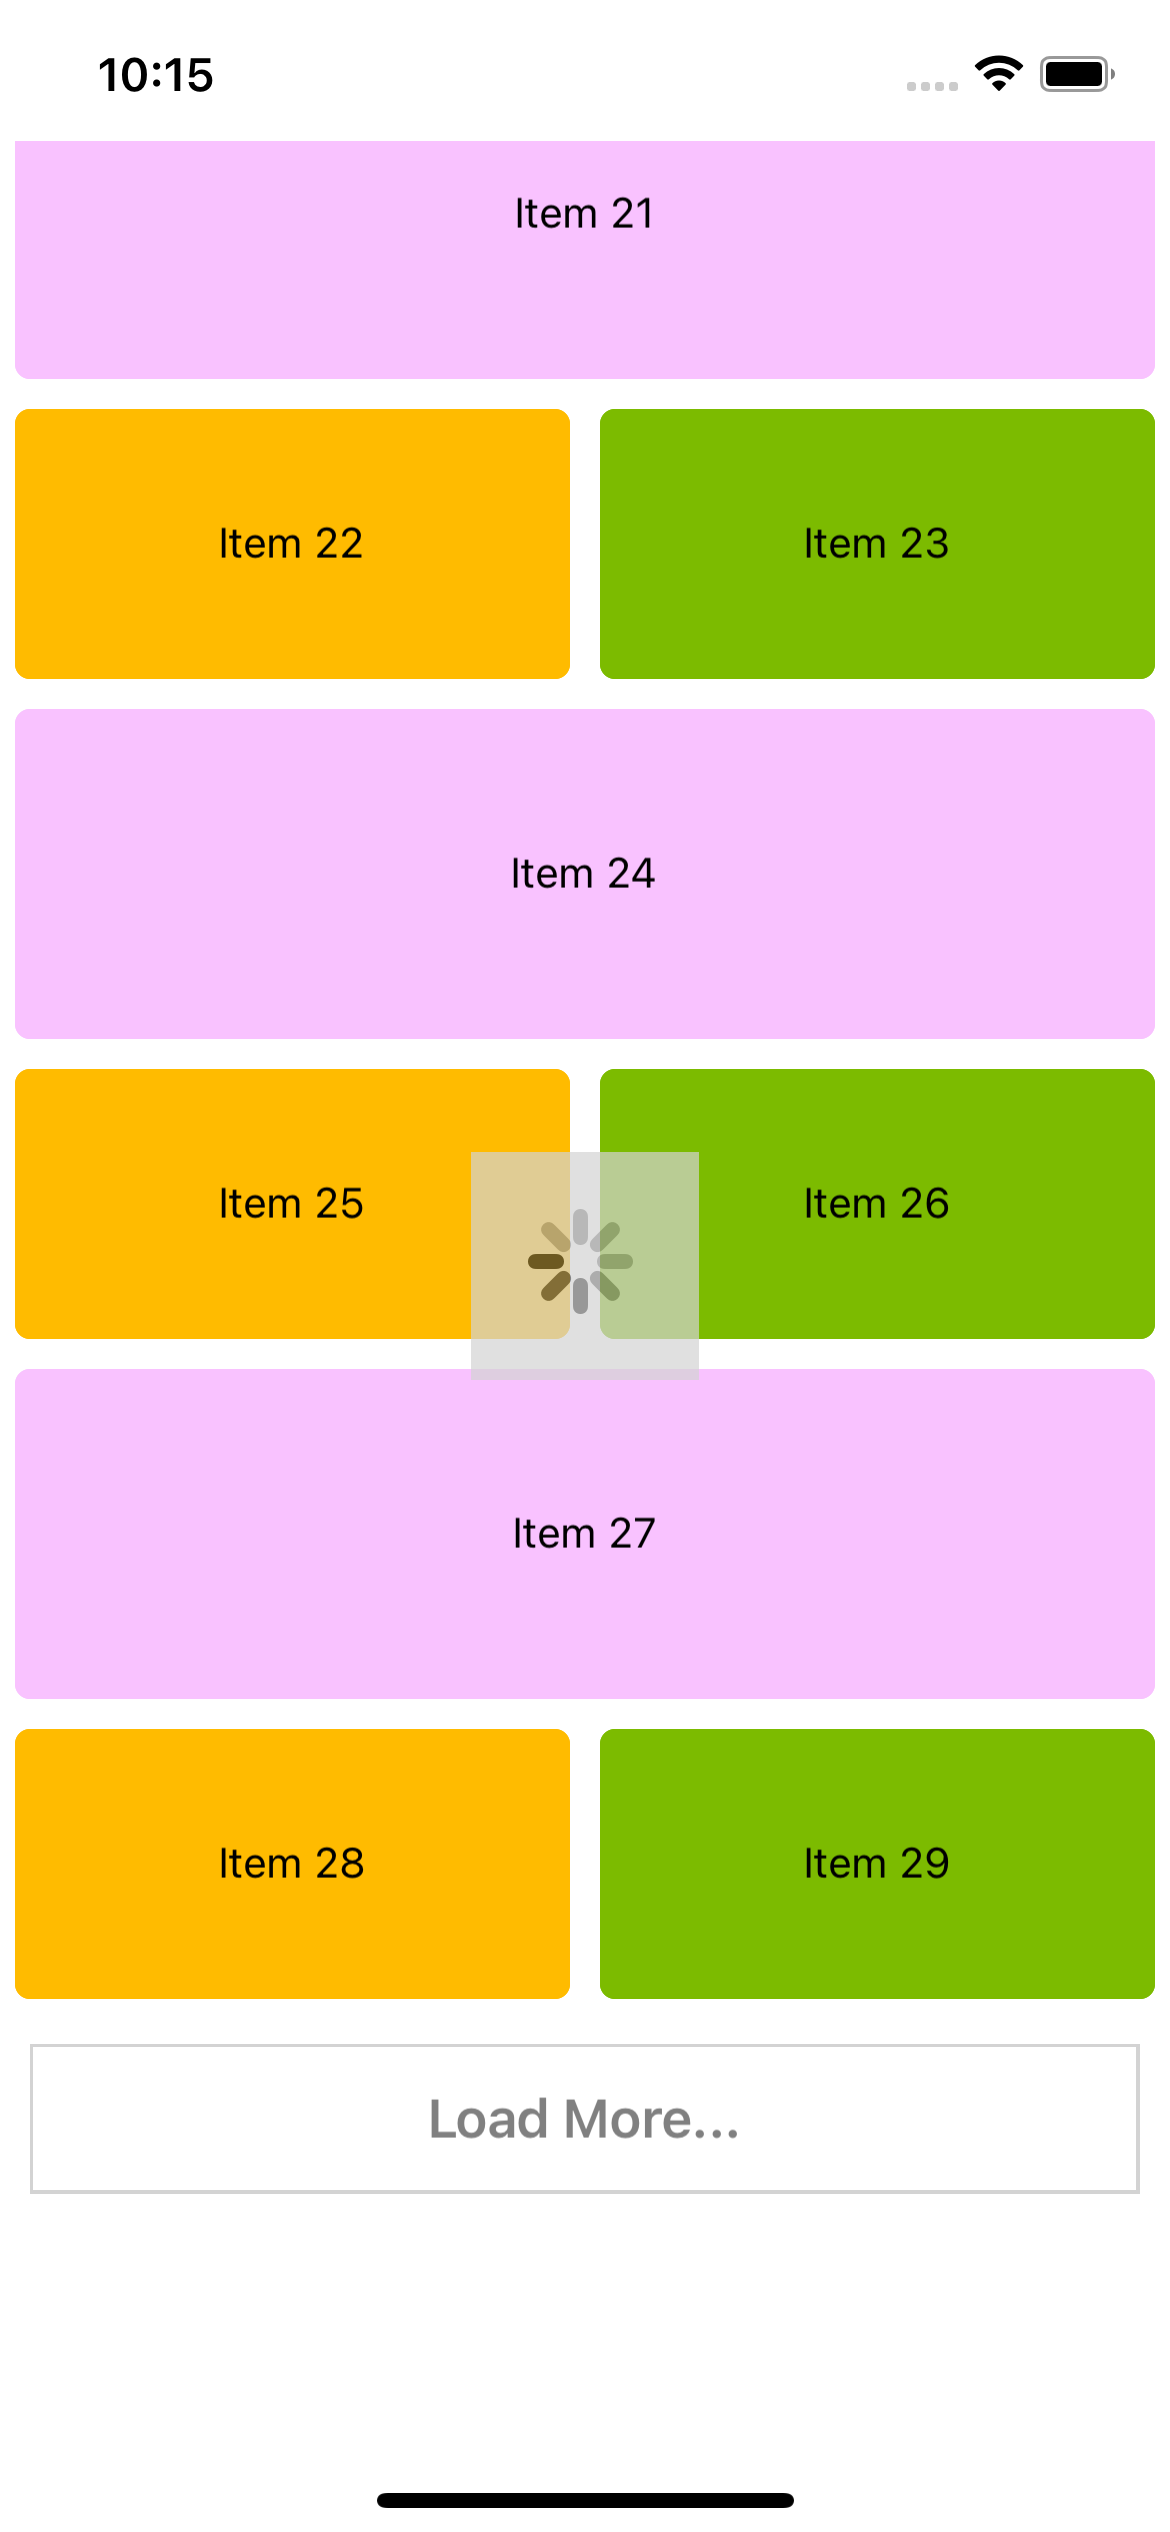
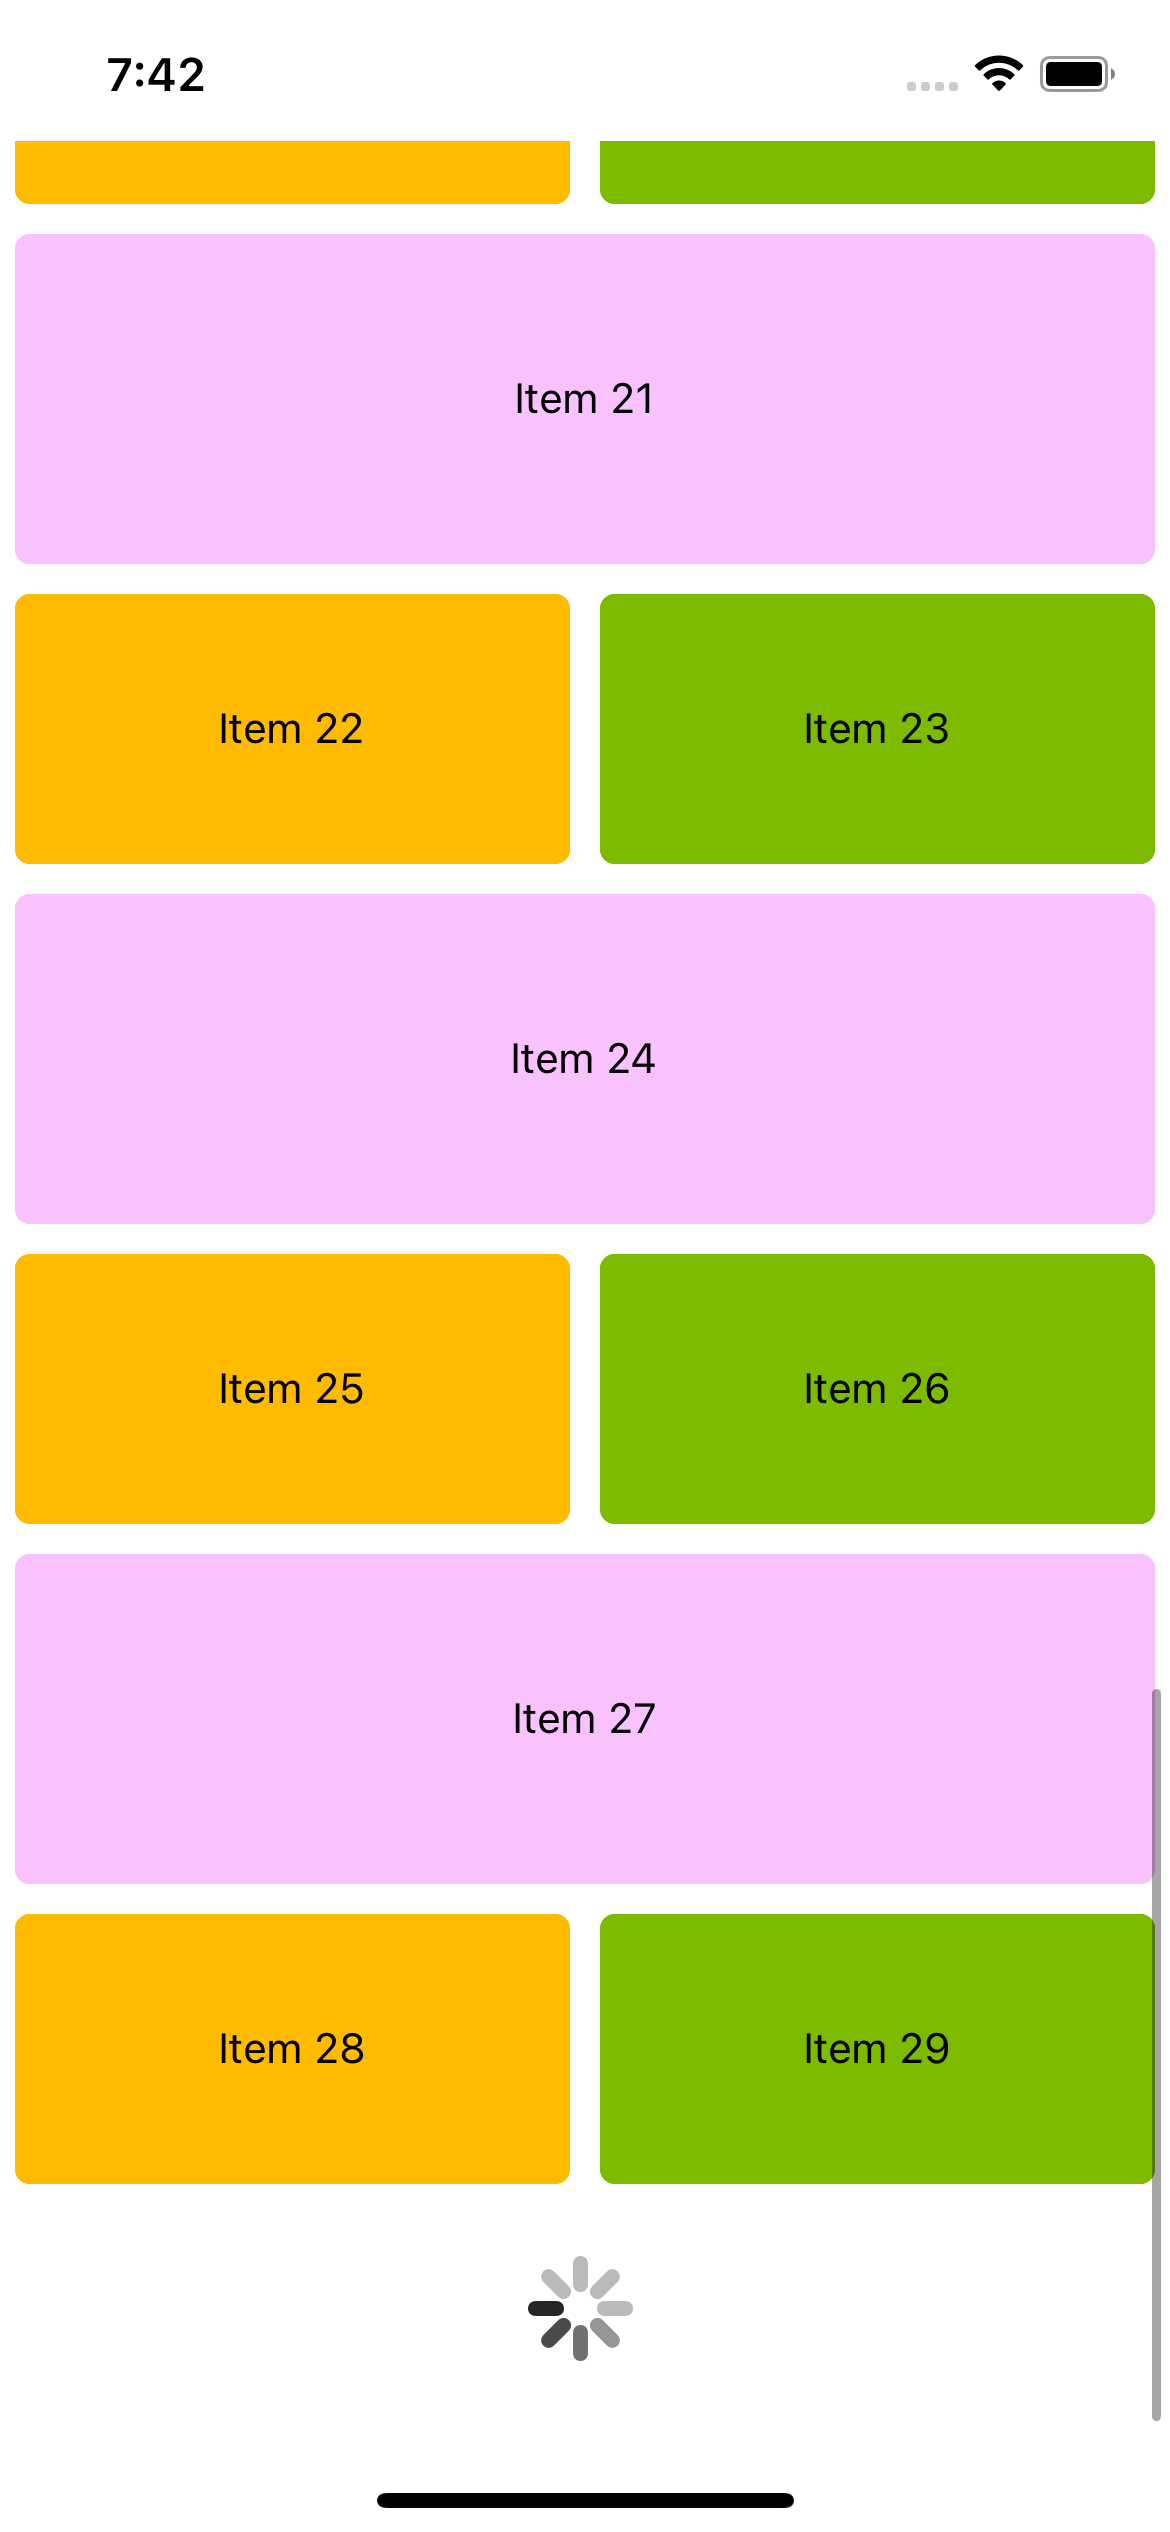
[change]: enhance - performance optimization - ux enhancement

diff --git a/AwesomeProject/src/c08/homework.jsx b/AwesomeProject/src/c08/homework.jsx
@@ -1,20 +1,27 @@
 import React, {useEffect, useRef, useState} from 'react';
-import {Dimensions, RefreshControl, View, Text, Pressable} from 'react-native';
+import {Dimensions, RefreshControl} from 'react-native';
 import {RecyclerListView, DataProvider, LayoutProvider} from 'recyclerlistview';
 
 import {Styles} from './Styles';
-import {ViewTypes, ITEM_HEIGHT} from './utils/constant';
+import {
+  ViewTypes,
+  ITEM_HEIGHT,
+  FETCH_BATCH_SIZE,
+  FETCH_DATA_SIZE,
+} from './utils/constant';
 import {generateArrayData} from './utils/util';
+import {LoadingIndicator as ListFooter} from './components/ListFooter';
 import ListItem from './components/ListItem';
-import Loading from './components/Loading';
+import LoadingLayer from './components/Loading';
 
-const BaseDataProvider = new DataProvider((r1, r2) => {
-  return r1.id !== r2.id;
-});
+// // disalbe debug
+// console.debug = () => {};
+const BaseDataProvider = new DataProvider((r1, r2) => r1.id !== r2.id);
 
 export default function RecyclerList() {
   const dataRef = useRef([]);
-  const [loading, setLoading] = useState(true);
+  const [loading, setLoading] = useState(false);
+  const [noMoreData, setNoMoreData] = useState(false);
   const [dataProvider, setDataProvider] = useState(BaseDataProvider);
   let {width} = Dimensions.get('window');
 
@@ -48,6 +55,7 @@ export default function RecyclerList() {
       }
     },
   );
+  layoutProvider.shouldRefreshWithAnchoring = false; // to prevent list flickering
   const rowRenderer = (type, data) => {
     let style = null;
     switch (type) {
@@ -61,20 +69,16 @@ export default function RecyclerList() {
     return <ListItem item={data} style={style} />;
   };
   const renderFooter = () => {
-    return (
-      <View style={Styles.footerWrapper}>
-        <Pressable style={Styles.footerBtn} onPress={handleRefreshAndLoadMore}>
-          <Text style={Styles.footerTxt}>Load More...</Text>
-        </Pressable>
-      </View>
-    );
+    console.debug('render footer ...');
+    return <ListFooter loading={loading} noMore={noMoreData} />;
+    // return <ListFooter onRefetch={handleRefetch} />;
   };
 
-  const handleRefreshAndLoadMore = async () => {
+  const handleRefetch = async () => {
     if (!loading) {
-      console.log('fetching ...');
+      console.debug('fetching ...');
       await fetchData();
-      console.log('finished');
+      console.debug('finished');
     }
   };
   async function fetchData() {
@@ -83,9 +87,16 @@ export default function RecyclerList() {
     await new Promise(resolve => {
       let waitingFor = 500 * Math.floor(((Math.random() * 100) % 10) + 1);
       setTimeout(() => {
-        let newData = generateArrayData(dataProvider.getSize(), 30);
-        dataRef.current = dataRef.current.concat(newData);
-        setDataProvider(dataProvider.cloneWithRows(dataRef.current));
+        if (dataProvider.getSize() > FETCH_DATA_SIZE) {
+          setNoMoreData(true);
+        } else {
+          let newData = generateArrayData(
+            dataProvider.getSize(),
+            FETCH_BATCH_SIZE,
+          );
+          dataRef.current = dataRef.current.concat(newData);
+          setDataProvider(dp => dp.cloneWithRows(dataRef.current));
+        }
         resolve();
       }, waitingFor);
     });
@@ -99,32 +110,27 @@ export default function RecyclerList() {
     // eslint-disable-next-line react-hooks/exhaustive-deps
   }, []);
 
-  console.log('render RecyclerListView');
-
-  return (
-    <>
-      {dataProvider.getSize() > 0 ? (
-        <RecyclerListView
-          style={Styles.container}
-          dataProvider={dataProvider}
-          layoutProvider={layoutProvider}
-          rowRenderer={rowRenderer}
-          // 可以使用 onEndReached 方案自动加载新数据
-          // onEndReached={handleRefreshAndLoadMore}
-          // 也可以使用 renderFooter 手动加在更多数据
-          renderFooter={renderFooter}
-          scrollViewProps={{
-            refreshControl: (
-              <RefreshControl
-                title="Pull to refresh"
-                refreshing={loading}
-                onRefresh={handleRefreshAndLoadMore}
-              />
-            ),
-          }}
-        />
-      ) : null}
-      {loading && <Loading />}
-    </>
+  console.debug('render RecyclerListView');
+  return dataProvider.getSize() > 0 ? (
+    <RecyclerListView
+      style={Styles.container}
+      dataProvider={dataProvider}
+      layoutProvider={layoutProvider}
+      rowRenderer={rowRenderer}
+      onEndReached={handleRefetch}
+      onEndReachedThreshold={30}
+      renderFooter={renderFooter}
+      scrollViewProps={{
+        refreshControl: (
+          <RefreshControl
+            title="Pull to refresh"
+            refreshing={loading}
+            onRefresh={handleRefetch}
+          />
+        ),
+      }}
+    />
+  ) : (
+    loading && <LoadingLayer />
   );
 }

diff --git a/AwesomeProject/src/c08/components/ListFooter.tsx b/AwesomeProject/src/c08/components/ListFooter.tsx
@@ -1,0 +1,41 @@
+import React, {useMemo} from 'react';
+import {View, ActivityIndicator, Pressable, Text} from 'react-native';
+
+import {Styles} from '../Styles';
+
+export function LoadMore({onRefetch}) {
+  const footer = useMemo(() => {
+    console.debug('in footer rendering');
+    return (
+      <View style={Styles.footerWrapper}>
+        <Pressable style={Styles.footerBtn} onPress={onRefetch}>
+          <Text style={Styles.footerTxt}>Load More...</Text>
+        </Pressable>
+      </View>
+    );
+  }, [onRefetch]);
+
+  return footer;
+}
+
+export function LoadingIndicator({loading, noMore}) {
+  const footer = useMemo(() => {
+    console.debug('in footer rendering');
+    return (
+      <View style={Styles.footerWrapper}>
+        {loading && (
+          <ActivityIndicator
+            style={{margin: 10}}
+            size="large"
+            color={'black'}
+          />
+        )}
+        {!loading && noMore && (
+          <Text style={Styles.footerTxt}>No more data</Text>
+        )}
+      </View>
+    );
+  }, [loading, noMore]);
+
+  return footer;
+}

diff --git a/AwesomeProject/src/c08/Styles.js b/AwesomeProject/src/c08/Styles.js
@@ -28,7 +28,7 @@ export const Styles = StyleSheet.create({
     backgroundColor: '#7cbb00',
     borderColor: '#7cbb00',
   },
-  loading: {
+  loadingLayer: {
     position: 'absolute',
     left: 0,
     right: 0,
@@ -38,12 +38,13 @@ export const Styles = StyleSheet.create({
     justifyContent: 'center',
     backgroundColor: 'transparent',
   },
-  loadingIndicator: {
+  loadingLayerIndicator: {
     backgroundColor: 'lightgrey',
-    opacity: 0.7,
     padding: 20,
+    borderRadius: 5,
   },
   footerWrapper: {
+    height: 56,
     alignItems: 'stretch',
     margin: 10,
   },
@@ -58,5 +59,6 @@ export const Styles = StyleSheet.create({
     color: 'grey',
     fontSize: 18,
     fontWeight: '600',
+    textAlign: 'center',
   },
 });

diff --git a/AwesomeProject/src/c08/components/ListItem.jsx b/AwesomeProject/src/c08/components/ListItem.jsx
@@ -3,14 +3,17 @@ import {Pressable, Text} from 'react-native';
 
 import {Styles} from '../Styles';
 
-export default function ListItem({item, style}) {
+function ListItem({item, style}) {
+  console.debug('render item:', item.id);
   return (
     <Pressable
       style={[Styles.itemWrapper, style]}
       onLayout={() => {
-        console.log('layout:', item.id);
+        console.debug('layout:', item.id);
       }}>
       <Text>{item.title}</Text>
     </Pressable>
   );
 }
+
+export default React.memo(ListItem);

diff --git a/AwesomeProject/src/c08/components/Loading.jsx b/AwesomeProject/src/c08/components/Loading.jsx
@@ -3,13 +3,14 @@ import {ActivityIndicator, View} from 'react-native';
 
 import {Styles} from '../Styles';
 
+// by inspect the size of small indicator is 20 * 20,  the large one is 36 * 36
 export default function Loading({color = 'black'}) {
   return (
-    <View style={Styles.loading}>
+    <View style={Styles.loadingLayer}>
       <ActivityIndicator
         size="large"
         color={color}
-        style={Styles.loadingIndicator}
+        style={Styles.loadingLayerIndicator}
       />
     </View>
   );

diff --git a/AwesomeProject/src/c08/utils/constant.js b/AwesomeProject/src/c08/utils/constant.js
@@ -12,3 +12,7 @@ export const ViewTypes = {
   HALF_LEFT: 1,
   HALF_RIGHT: 2,
 };
+
+// mock data size
+export const FETCH_BATCH_SIZE = 30;
+export const FETCH_DATA_SIZE = 100;

diff --git a/AwesomeProject/src/c08/README.md b/AwesomeProject/src/c08/README.md
@@ -1,9 +1,10 @@
 # List: 高性能的无限列表
 
 <p>
-<img src="../../docs/c08_1.png" width="30%" />
-<img src="../../docs/c08_2.png" width="30%" />
-<img src="../../docs/c08_3.png" width="30%" />
+<img src="../../docs/c08_1.png" width="22%" />
+<img src="../../docs/c08_2.png" width="22%" />
+<img src="../../docs/c08_3.png" width="22%" />
+<img src="../../docs/c08_4.png" width="22%" />
 </p>
 
 React Native 官方提供的列表组件是 `FlatList` ，但是更推荐使用开源社区提供的列表组件 `RecyclerListView` 。理由就是性能更好。
